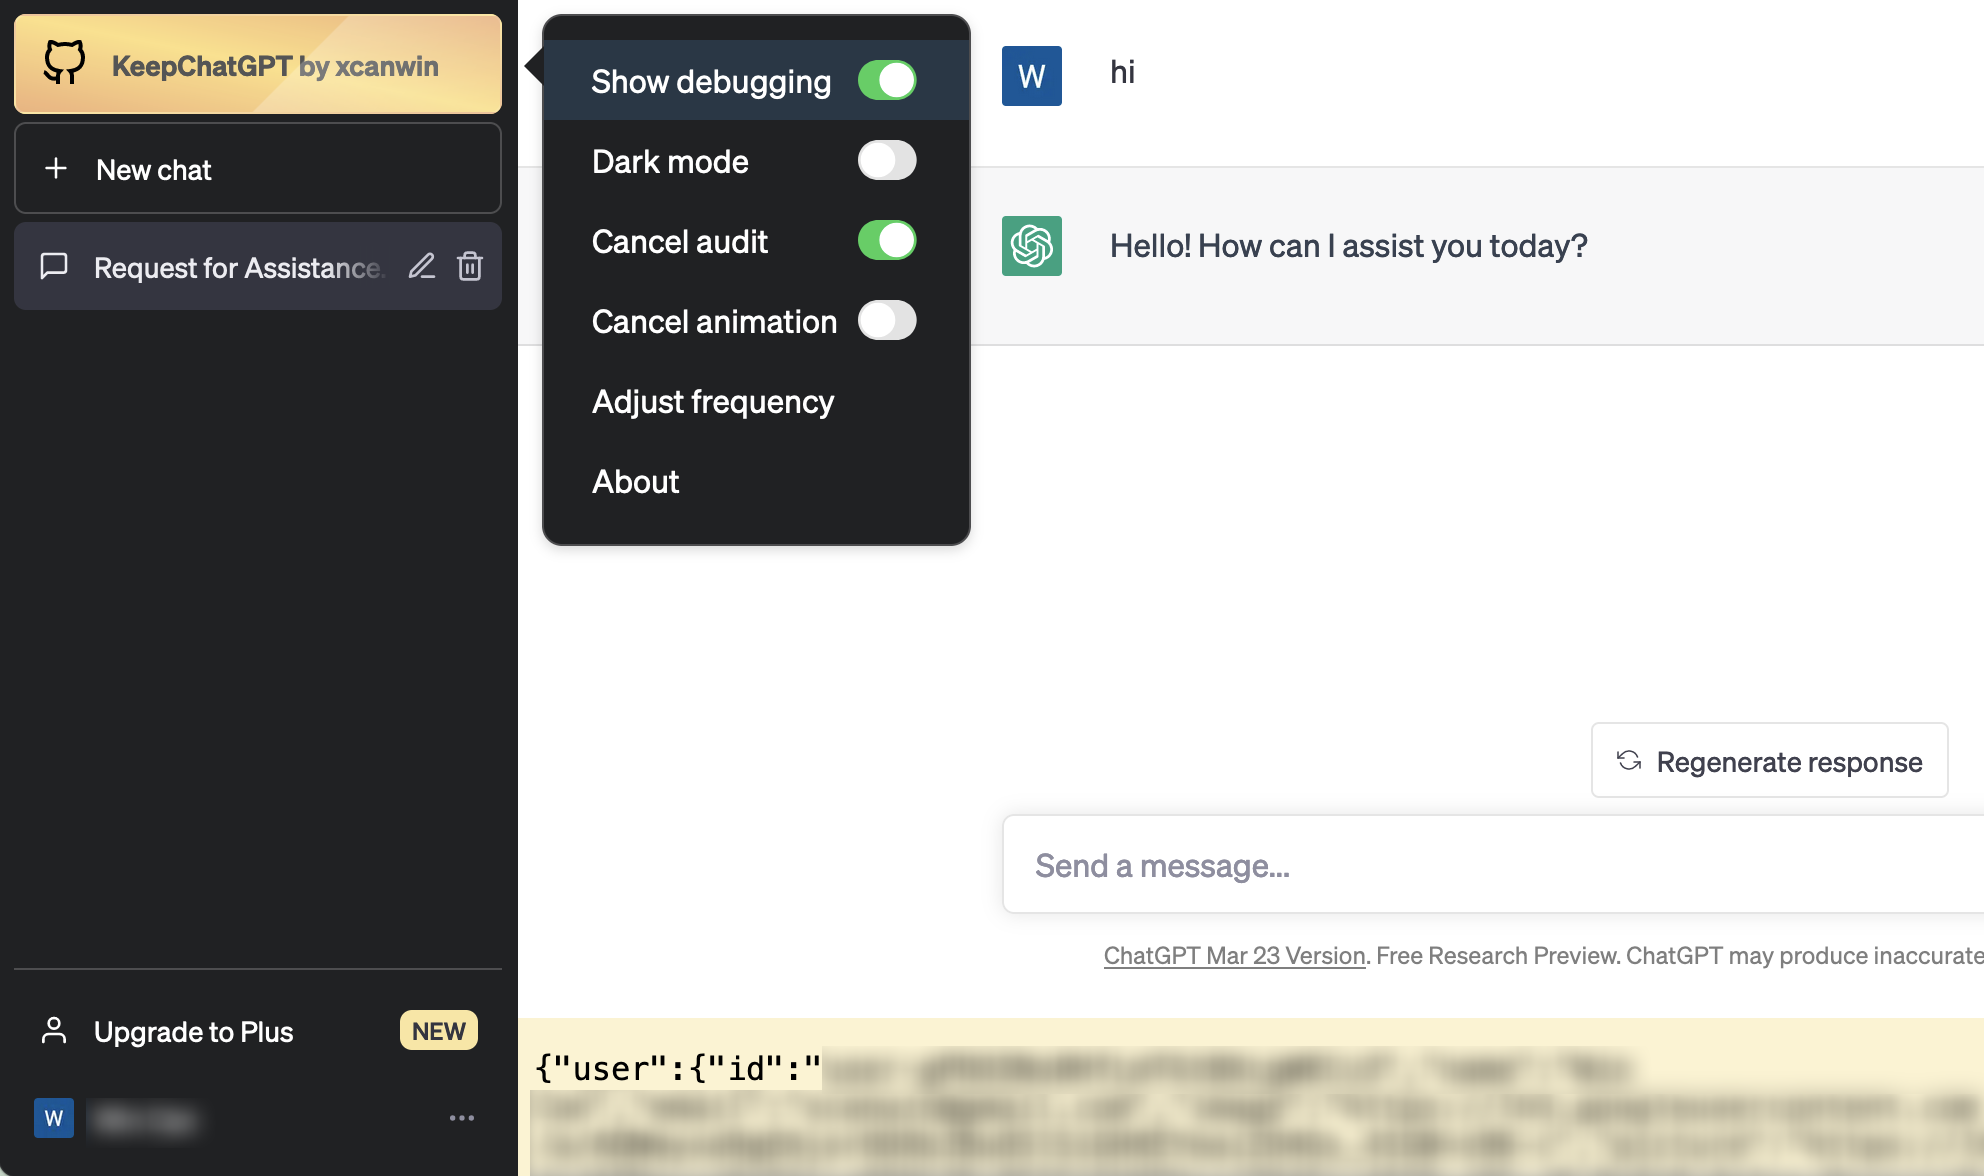
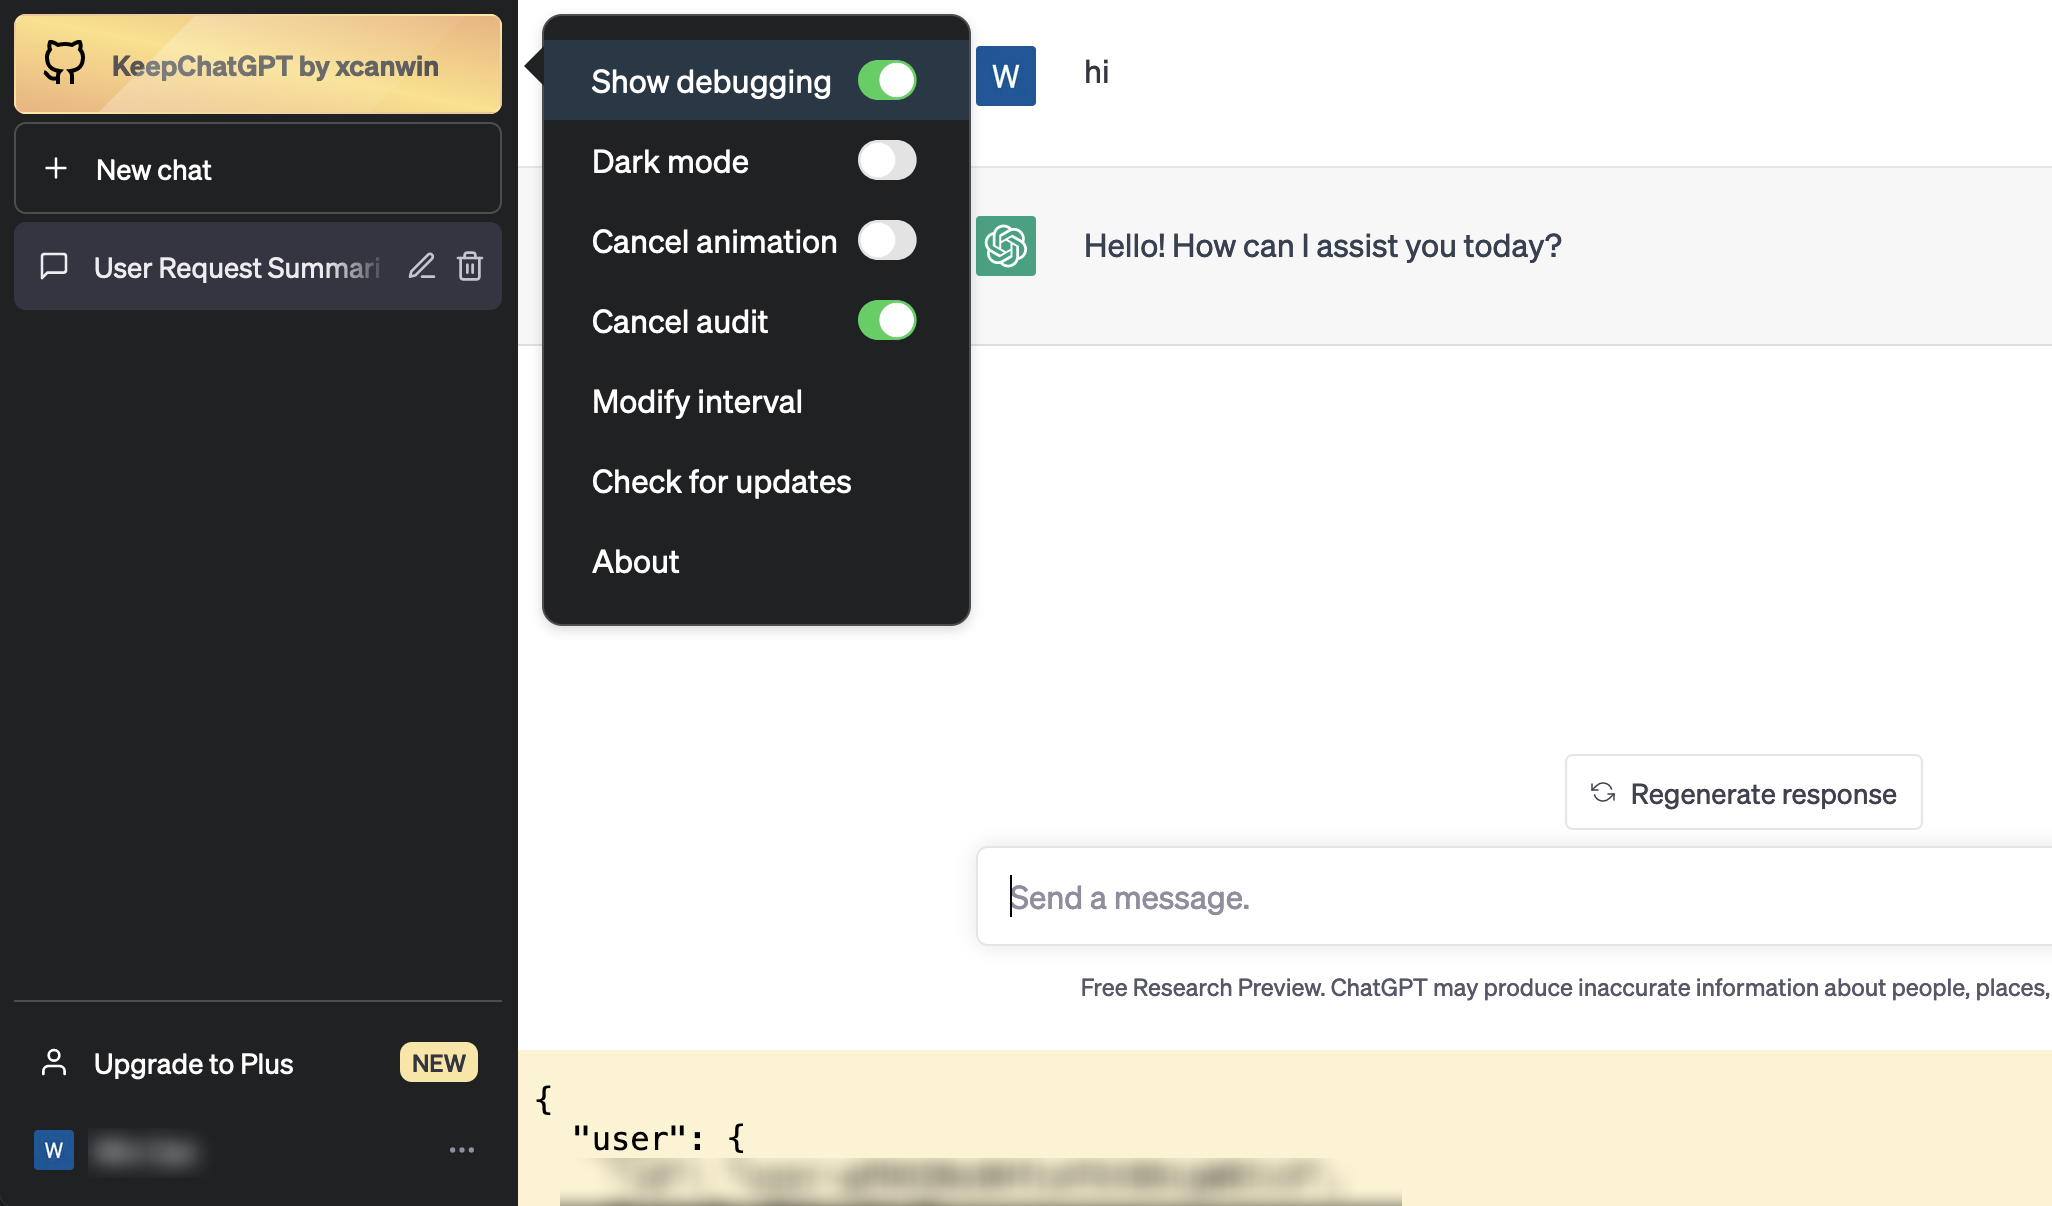
修复国际化翻译失效的bug

diff --git a/KeepChatGPT.user.js b/KeepChatGPT.user.js
@@ -1,7 +1,7 @@
 // ==UserScript==
 // @name              KeepChatGPT
 // @description       让我们在使用ChatGPT过程中更高效、更顺畅，完美解决ChatGPT网络错误，不再频繁地刷新网页，足足省去10个多余的步骤。还可以取消后台监管审计。解决了这几类报错: (1) NetworkError when attempting to fetch resource. (2) Something went wrong. If this issue persists please contact us through our help center at help.openai.com. (3) This content may violate our content policy. If you believe this to be in error, please submit your feedback — your input will aid our research in this area. (4) Conversation not found.
-// @version           9.6
+// @version           9.7
 // @author            xcanwin
 // @namespace         https://github.com/xcanwin/KeepChatGPT/
 // @supportURL        https://github.com/xcanwin/KeepChatGPT/
@@ -61,7 +61,7 @@
     const $$ = (Selector, el) => (el || document).querySelectorAll(Selector);
 
     const tl = function(s) {
-        const lang = `
+        let lang = `
 {
     "index": {"暗色主题": "dm", "显示调试": "sd", "取消审计": "cm", "取消动画": "ca", "关于": "ab", "建议间隔30秒": "si", "调整间隔": "mi", "检查更新": "cu", "当前版本": "cv", "发现最新版": "dl", "已是最新版": "lv"},
     "local": {

diff --git a/README_EN.md b/README_EN.md
@@ -65,3 +65,18 @@
 | --- | --- |
 | 1 | [Github](https://raw.githubusercontent.com/xcanwin/KeepChatGPT/main/KeepChatGPT.user.js) |
 | 2 | [GreasyFork](https://greasyfork.org/zh-CN/scripts/462804-keepchatgpt) |
+
+## Appreciate
+
+- If this project is helpful to you.
+- If this project improves your work efficiency.
+- If you think this project is useful and easy to use.
+- If you want this project to be maintained continuously, in order to continue to prevent openai from reporting a new round of errors.
+- If you want this project to continue to upgrade more functions.
+- Creation is not easy, maintaining a project requires time, energy, and technology. Welcome to appreciate and appreciate.
+- You can write your user name and ID in the remarks. Thank you
+
+| Thanks |
+| --- |
+| [☕ buymeacoffee](https://www.buymeacoffee.com/xcanwin) |
+| <img src="./assets/appreciate_alipay.png" width="300"></img> |

diff --git a/README.md b/README.md
@@ -157,6 +157,9 @@
 - 如果你希望本项目持续维护，以继续防止openai接下来新的一轮的报错
 - 如果你希望本项目持续升级更多的功能
 - ```创造不易，维护一个项目需要消耗时间、精力、技术，欢迎欣赏与赞赏```
-- 可在备注里```写上你的用户名、ID```，暂时只支持支付宝，谢谢
+- 可在备注里```写上你的用户名、ID```，谢谢
 
-<img src="./assets/appreciate_alipay.png" width="300"></img>
+| Thanks |
+| --- |
+| [☕ buymeacoffee](https://www.buymeacoffee.com/xcanwin) |
+| <img src="./assets/appreciate_alipay.png" width="300"></img> |
